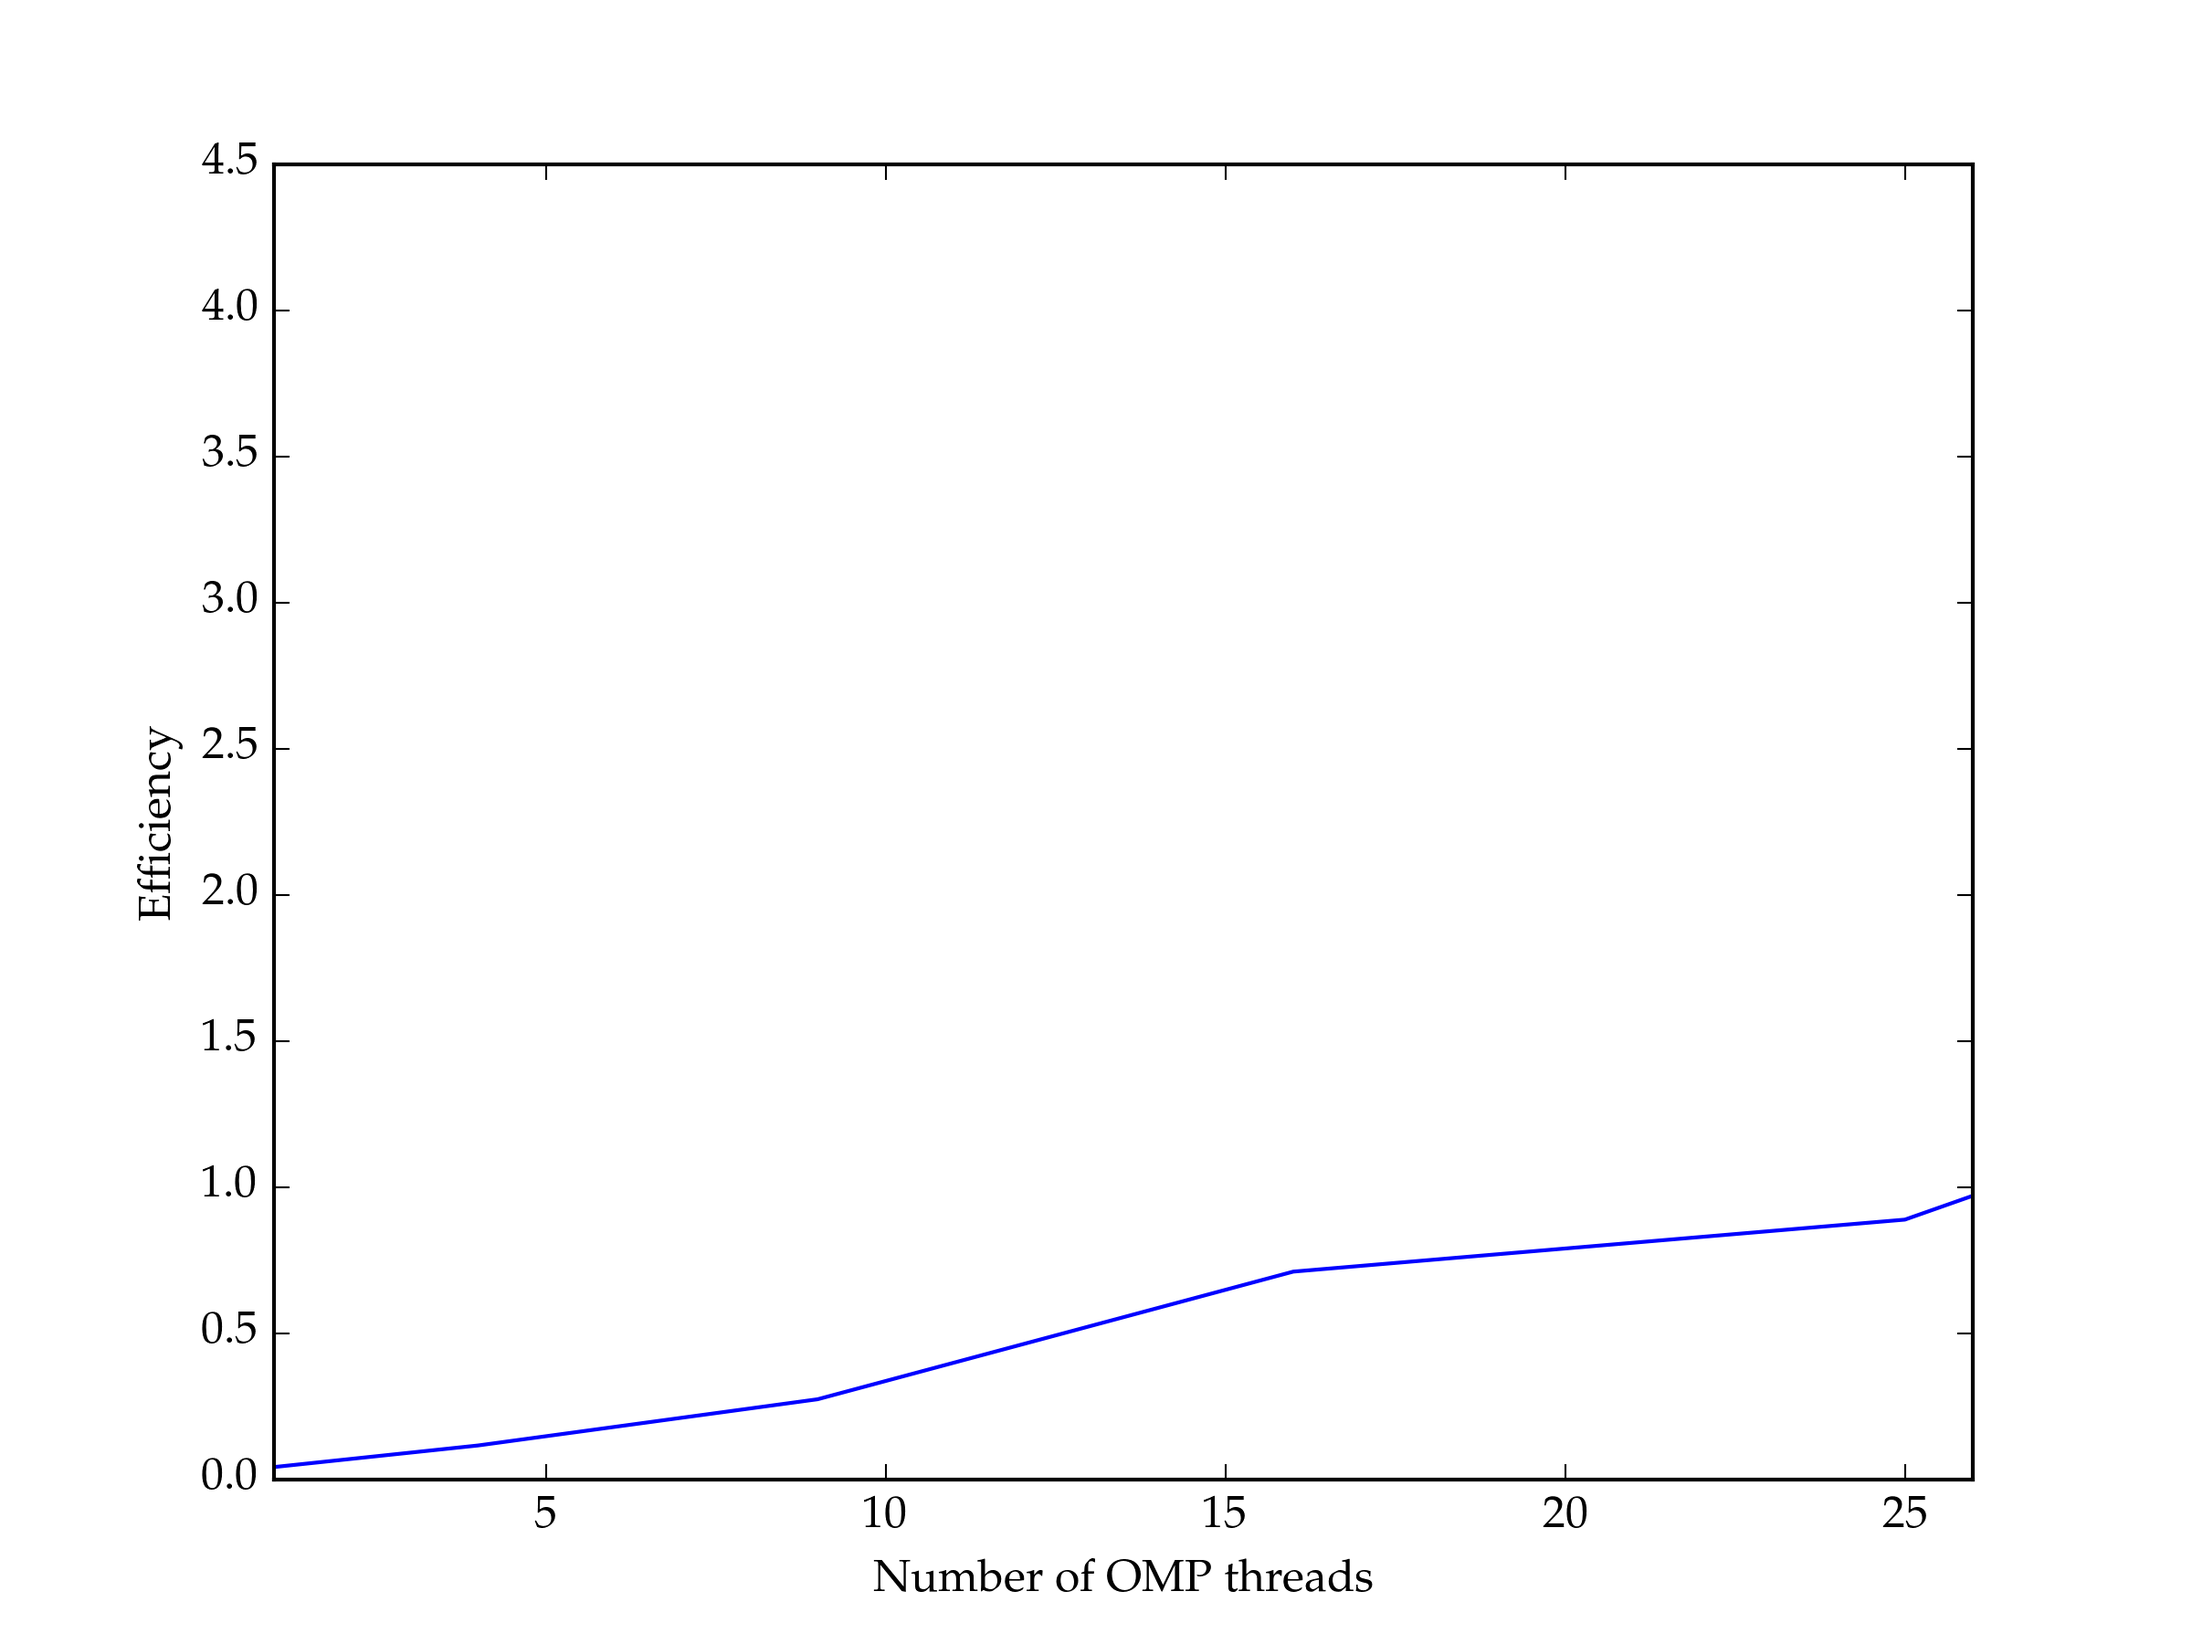
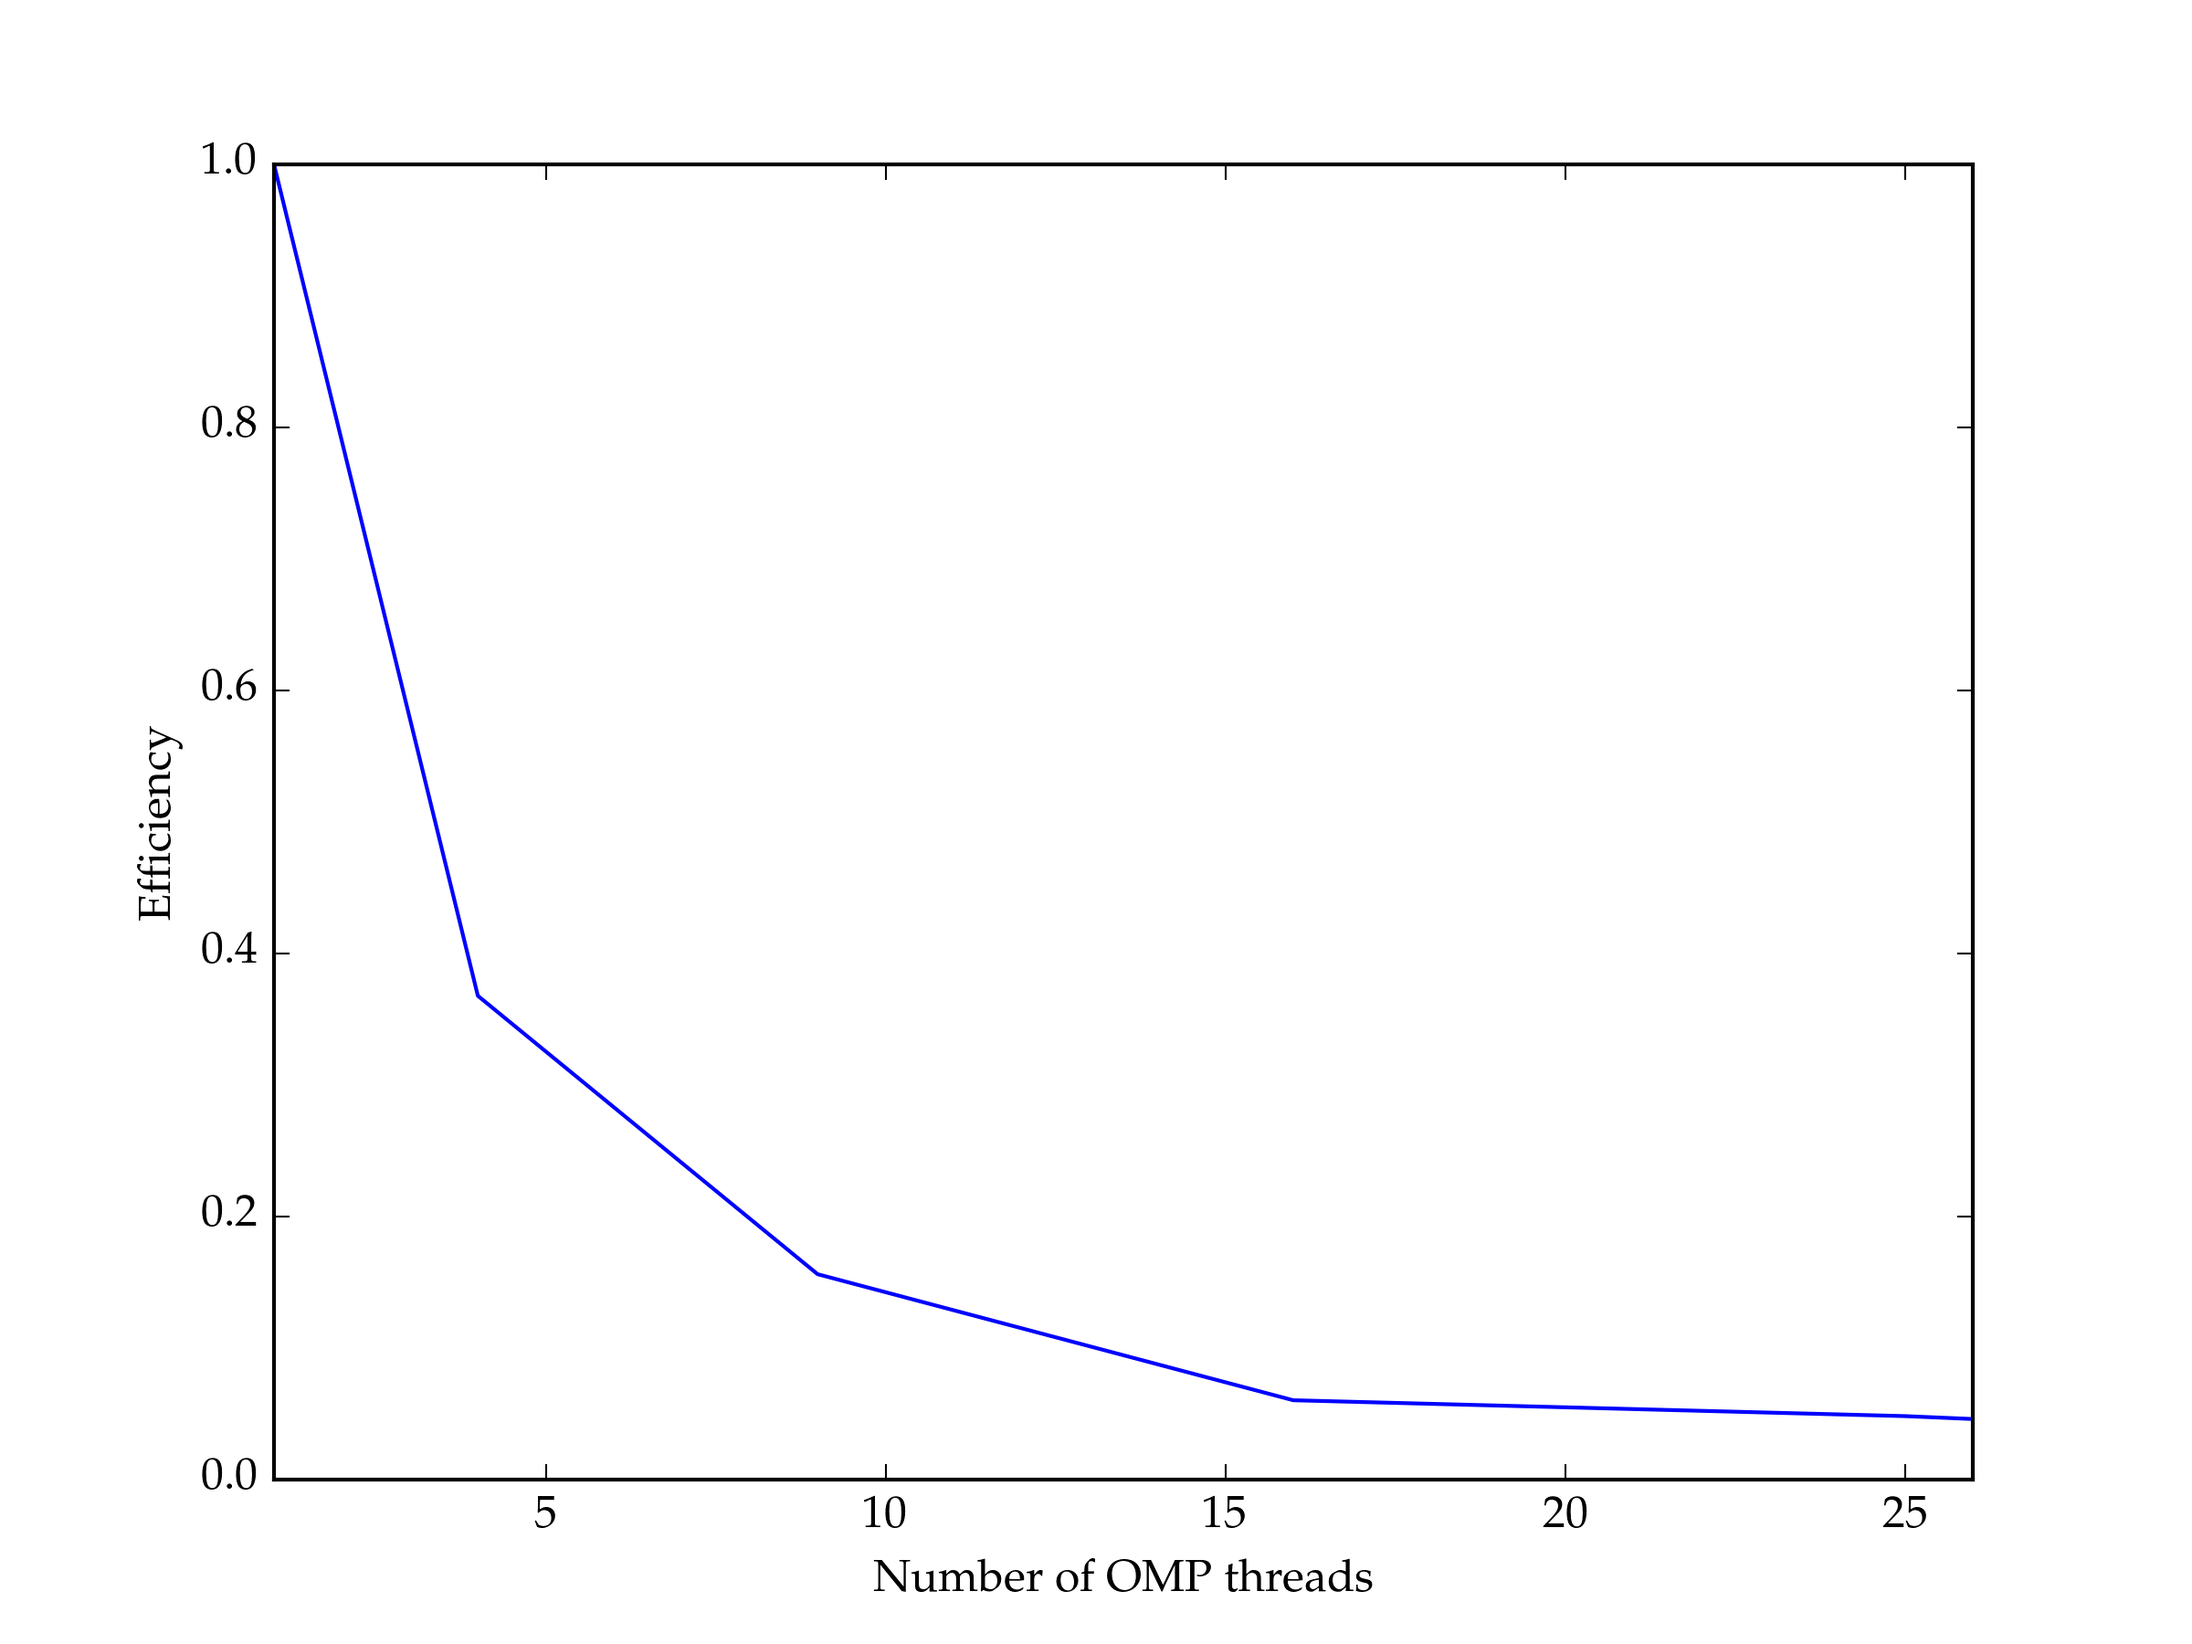
Fixed weak scaling study plotting

diff --git a/report/scaling_studies/plotter.py b/report/scaling_studies/plotter.py
@@ -24,6 +24,9 @@ plt.cla()
 
 threads, timings = np.loadtxt('weak_scaling.csv', delimiter=',', usecols=(0,1), unpack=True)
 
+serial_time = timings[0];
+timings = np.divide(serial_time, timings)
+
 plt.plot(threads, timings)
 plt.xlim([1,26])
 plt.xlabel("Number of OMP threads")
